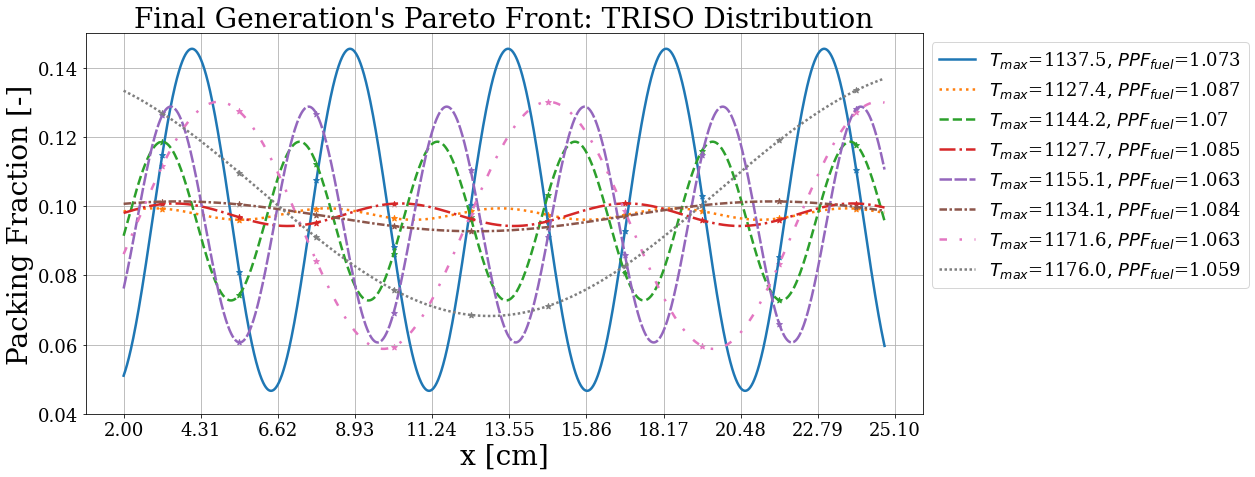
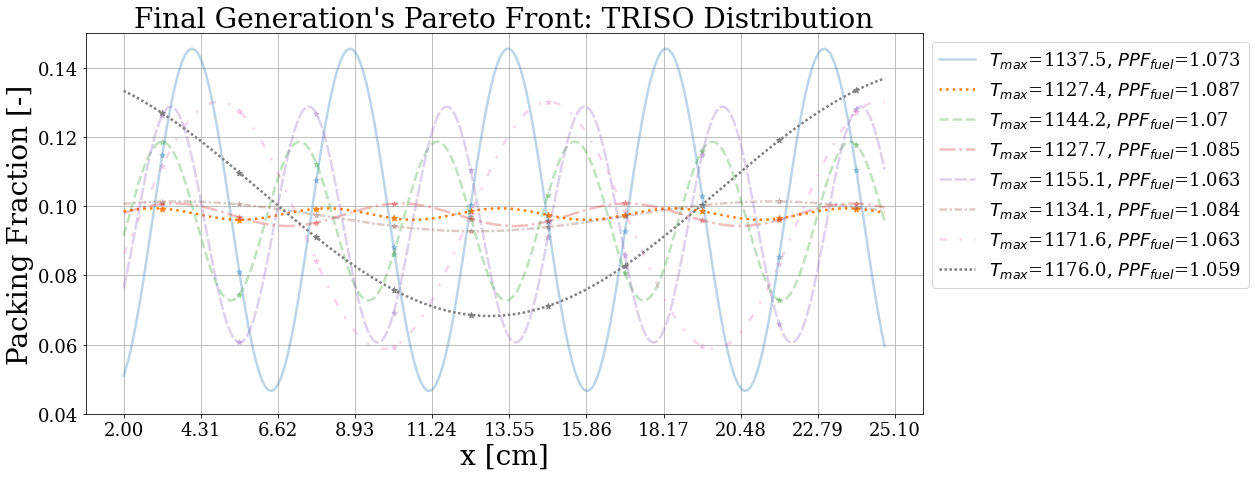
edits

diff --git a/docs/ahtr_rollo_slab.tex b/docs/ahtr_rollo_slab.tex
@@ -863,8 +863,8 @@ $PPF_{fuel}$, respectively.
         Pareto front.}
         \label{fig:slab-obj-2-tempppf-pareto-distr} 
     \end{subfigure}
-    \caption{Simulation p-2c -- ROLLO two-objective optimization to minimize maximum 
-    plank temperature ($T_{max}$) and fuel-normalized power peaking factor 
+    \caption{Simulation p-2c -- ROLLO two-objective optimization to minimize the 
+    maximum plank temperature ($T_{max}$) and fuel-normalized power peaking factor 
     ($PPF_{fuel}$) in the plank. 
     Input parameters varied: TRISO packing fraction distribution 
     ($\rho_{TRISO}(\vec{r})$). $PF_{total}$ = 0.0979.}
@@ -887,7 +887,7 @@ $PPF_{fuel}$, respectively.
         \label{fig:slab-obj-2-tempppf-min-ppf} 
     \end{subfigure}
     \caption{(contd.) Simulation p-2c -- ROLLO two-objective optimization to minimize 
-    maximum plank temperature ($T_{max}$) and fuel-normalized power peaking factor 
+    the maximum plank temperature ($T_{max}$) and fuel-normalized power peaking factor 
     ($PPF_{fuel}$) in the plank. 
     Input parameters varied: TRISO packing fraction distribution 
     ($\rho_{TRISO}(\vec{r})$). $PF_{total}$ = 0.0979.}
@@ -899,14 +899,15 @@ These \gls{TRISO} distributions on the Pareto front that minimize both $T_{max}$
 and $PPF_{fuel}$ vary between the two extreme cases: 
 most-minimized $T_{max}$ and most-minimized $PPF_{fuel}$.
 In Figure \ref{fig:slab-obj-2-tempppf-pareto-distr}, the plank model with 
-the most-minimized $T_{max}$ and highest $PPF_{fuel}$ (the orange distribution) 
+the most-minimized $T_{max}$ and highest $PPF_{fuel}$ (the orange dotted distribution) 
 has an almost constant TRISO distribution of $PF_{total}=0.0979$ across the plank, 
 with a slight oscillating pattern (also illustrated in Figure 
 \ref{fig:slab-obj-2-tempppf-min-temp}).
 In Figure \ref{fig:slab-obj-2-tempppf-pareto-distr}, the plank model with the
-most-minimized $PPF_{fuel}$ and highest $T_{max}$ (the grey distribution) has a TRISO 
-distribution that peaks near the plank's sides and has a minimum point at the
-plank's center (also illustrated in Figure \ref{fig:slab-obj-2-tempppf-min-ppf}). 
+most-minimized $PPF_{fuel}$ and highest $T_{max}$ (the grey densely dotted 
+distribution) has a TRISO distribution that peaks near the plank's sides and has 
+a minimum point at the plank's center (also illustrated in Figure 
+\ref{fig:slab-obj-2-tempppf-min-ppf}). 
 Sections \ref{sec:plank-discussion-multi} discusses and explains simulation p-2c's 
 results.
 
